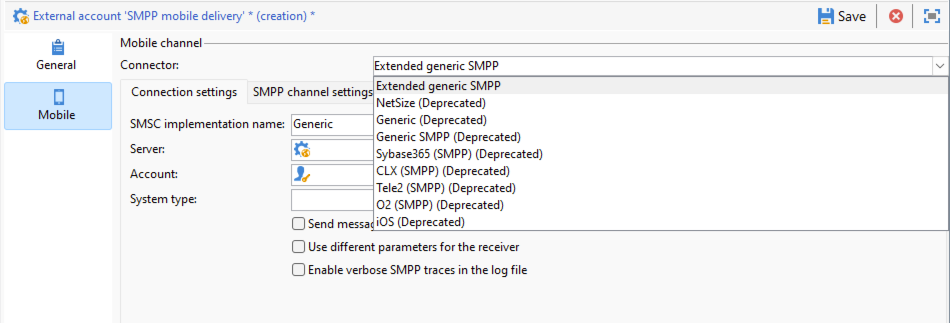
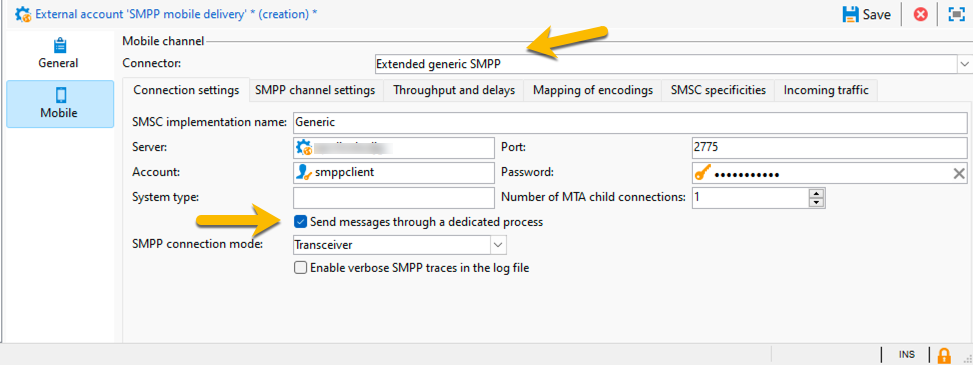
Update

diff --git a/help/v8/send/sms/smpp-external-account.md b/help/v8/send/sms/smpp-external-account.md
@@ -25,6 +25,8 @@ The network equipment on the SMS service provider side is often called the SMSC.
 
 ## Connection settings {#smpp-connection-settings}
 
+![](assets/smpp_connection_settings.png){zoomable="yes"}
+
 Here are the parameters and their role needed to set up the connection : 
 
 * **SMSC implementation name** : sets the name of the SMSC implementation. It should be set to the name of your provider. The role of this field is described in the SMPP error management section.
@@ -64,7 +66,9 @@ When enabled, extra logs will be output to the log file. This is very useful for
 
 ## SMPP channel settings {#smpp-channel-settings}
 
-### Allow character transliteration
+![](assets/smpp_channel_settings.png){zoomable="yes"}
+
+### Authorize character transliteration
 
 Transliteration is the process of finding equivalent characters to missing ones. For example, the French "ê" (e with circumflex accent) character is missing from GSM encoding, but it can be replaced by "e" without impairing readability too much.
 
@@ -91,6 +95,8 @@ They are transmitted as-is in source_addr_ton, source_addr_npi, dest_addr_ton an
 This field is transmitted as-is in the service_type field of the SUBMIT_SM PDU. Set this to whatever the provider needs.
 
 ## Throughput and delays {#smpp-delays}
+
+![](assets/smpp_throughput.png){zoomable="yes"}
 
 These settings control all the timing aspects of the SMPP channel. Some providers require very precise control of the message rate, window and retry timings, so these settings should be set to values that match the capacity of the provider and the conditions indicated in their contract.
 
@@ -164,6 +170,8 @@ This means that the MTA will try to encode the message in GSM, if it succeeds it
 If the message cannot be encoded in GSM, it will be encoded in UCS-2 and will set data_coding to 8.
 
 ## SMSC specificities {#smsc-specificities}
+
+![](assets/smsc_specificities.png){zoomable="yes"}
 
 ### Activate message_payload
 
@@ -311,6 +319,8 @@ If enabled, all connections to the SMSC will be encrypted using TLS.
 
 
 ## Incoming traffic {#incoming-traffic}
+
+![](assets/incoming_traffic.png){zoomable="yes"}
 
 ### Optional SMPP parameters (TLV) in MO
 

diff --git a/help/v8/send/sms/sms-standalone-instance.md b/help/v8/send/sms/sms-standalone-instance.md
@@ -35,18 +35,12 @@ Here are the steps to create your SMPP external account :
 
 ![](assets/sms_extaccount_new.png){zoomable="yes"}
 
-1. In the **[!UICONTROL Mobile]** tab, select **[!UICONTROL Extended generic SMPP]** from the **[!UICONTROL Connector]** drop-down list.
+1. In the **[!UICONTROL Mobile]** tab, keep **[!UICONTROL Extended generic SMPP]** in the **[!UICONTROL Connector]** drop-down list.
+The **[!UICONTROL Send messages through a dedicated process]** box is checked by default.
 
 ![](assets/sms_extaccount_connector.png){zoomable="yes"}
 
-1. In the **[!UICONTROL Connection settings]** tab, complete the form with informations received from the SMPP provider. 
-You can define the number of connections to the provider per MTA child. By default, it is set to 1.
-Check the **[!UICONTROL Send messages througgh a dedicated process]** box, you will be able to choose the connection mode between *Transmitter + receiver* and *Transceiver*
+To set up the connection, you need to fill the tabs of this form. For details, [learn more about SMPP external account](smpp-external-account.md#smpp-connection-settings).
 
-![](assets/sms_connection_settings.png){zoomable="yes"}
-
-The **[!UICONTROL Enable verbose SMPP traces in the log file]** checkbox will allow you to have the SMPP traffic in the log files. This option will help you during troubleshootings.
-
-![](assets/sms_verbose.png){zoomable="yes"}
 
 ## Configure the delivery template {#sms-delivery-template}
